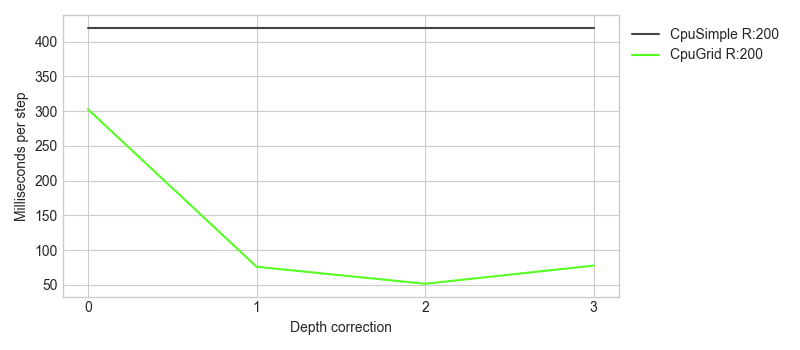
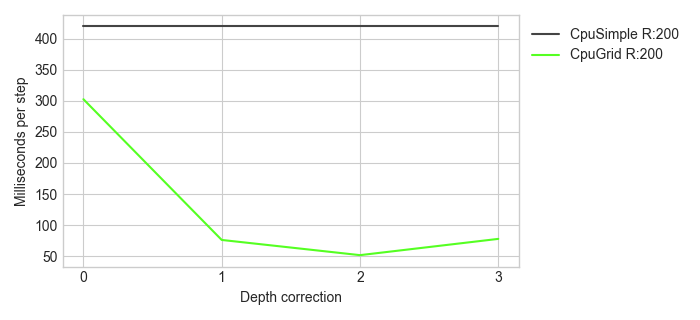
automated plot creation

diff --git a/tay_plots.py b/tay_plots.py
@@ -5,25 +5,7 @@ import numpy as np
 plt.style.use('seaborn-whitegrid')
 
 
-value_index = 0
-# value_label = "Milliseconds per step"
-# value_label = "Narrow/broad phase ratio (%)"
-value_label = "Mean relative deviation (%)"
-data_filename = 'plot_uniform_telemetry'
-plot_see_radii = [
-    0,
-    1,
-    2,
-]
-plot_structures = [
-    'CpuSimple',
-    'CpuTree',
-    'CpuGrid',
-    # 'GpuSimple (direct)',
-    # 'GpuSimple (indirect)',
-]
-
-def _format_and_label(label, radius):
+def _format_and_label(label, radius, all_lines):
     if label == 'CpuSimple':
         color = '#444444'
     elif label == 'CpuTree':
@@ -34,20 +16,17 @@ def _format_and_label(label, radius):
         color = '#ff9933'
     else:
         color = '#ee0000'
-    if radius == 0:
+    if all_lines:
         style = '-'
-    elif radius == 1:
-        style = '--'
     else:
-        style = ':'
-    # style = '-'
+        if radius == 0:
+            style = '-'
+        elif radius == 1:
+            style = '--'
+        else:
+            style = ':'
     return color, style, '%s R:%g' % (label, pow(2, radius) * 50.0)
 
-fig = plt.figure(figsize=(8, 3.5))
-ax = plt.axes()
-
-plt.xlabel("Depth correction")
-plt.ylabel(value_label)
 
 def _number_from_token(token, index):
     bits = token.split('|')
@@ -56,39 +35,68 @@ def _number_from_token(token, index):
     else:
         return float(bits[index])
 
-with open('../tay/benchmark/%s' % data_filename, 'r') as file:
-    text = file.read()
-    lines = text.splitlines()
 
-    depth_corrections = lines[0].split(' ')
-    min_depth_correction = int(depth_corrections[0])
-    max_depth_correction = int(depth_corrections[1])
+def _create_plots_from_file(in_filename, out_filename, value_index, value_label, plot_see_radii, plot_structures, all_lines):
+    with open('../tay/benchmark/%s' % in_filename, 'r') as file:
+        text = file.read()
+        lines = text.splitlines()
 
-    x_vals = range(min_depth_correction, max_depth_correction)
+        depth_corrections = lines[0].split(' ')
+        min_depth_correction = int(depth_corrections[0])
+        max_depth_correction = int(depth_corrections[1])
 
-    for line in lines[1:]:
-        if line.startswith('--'):
-            continue
-        label, rest = line.split('::')
-        if label not in plot_structures:
-            continue
-        tokens = rest.split(' ')
-        radius = int(tokens[0])
-        if radius not in plot_see_radii:
-            continue
-        if len(tokens) == 2:
-            n = _number_from_token(tokens[1], value_index)
-            y_vals = [n for _ in x_vals]
-        else:
-            y_vals = [_number_from_token(n, value_index) for n in tokens[1:]]
-        c, f, l = _format_and_label(label, radius)
-        plt.plot(x_vals, y_vals, f, color=c, label=l)
+        x_vals = range(min_depth_correction, max_depth_correction)
 
-# plt.ylim([0, 100])
+        for line in lines[1:]:
+            if line.startswith('--'):
+                continue
+            label, rest = line.split('::')
+            if label not in plot_structures:
+                continue
+            tokens = rest.split(' ')
+            radius = int(tokens[0])
+            if radius not in plot_see_radii:
+                continue
+            if len(tokens) == 2:
+                n = _number_from_token(tokens[1], value_index)
+                y_vals = [n for _ in x_vals]
+            else:
+                y_vals = [_number_from_token(n, value_index) for n in tokens[1:]]
+            c, f, l = _format_and_label(label, radius, all_lines)
+            plt.plot(x_vals, y_vals, f, color=c, label=l)
 
-plt.gca().xaxis.set_major_locator(mticker.MultipleLocator(1))
-plt.legend(bbox_to_anchor=(1, 1), loc="upper left");
-plt.tight_layout()
-plt.show()
 
-fig.savefig('%s.png' % data_filename)
+def _create_figure(out_filename, in_filenames, value_index, value_label, plot_see_radii, plot_structures, ylim, all_lines):
+    fig = plt.figure(figsize=(7, 3.2))
+    ax = plt.axes()
+
+    plt.xlabel("Depth correction")
+    plt.ylabel(value_label)
+
+    for in_filename in in_filenames:
+        _create_plots_from_file(in_filename,
+                                out_filename=out_filename,
+                                value_index=value_index,
+                                value_label=value_label,
+                                plot_see_radii=plot_see_radii,
+                                plot_structures=plot_structures,
+                                all_lines=all_lines)
+
+    if ylim is not None:
+        plt.ylim([0, ylim])
+
+    plt.gca().xaxis.set_major_locator(mticker.MultipleLocator(1))
+    plt.legend(bbox_to_anchor=(1, 1), loc="upper left");
+    plt.tight_layout()
+    # plt.show()
+    fig.savefig('%s.png' % out_filename)
+
+
+_create_figure('plot1', ['plot_uniform_runtimes'], 0, 'Milliseconds per step', [0], ['CpuSimple', 'CpuGrid'], None, False)
+_create_figure('plot2', ['plot_uniform_runtimes'], 0, 'Milliseconds per step', [2], ['CpuSimple', 'CpuGrid'], None, True)
+_create_figure('plot3', ['plot_uniform_runtimes'], 0, 'Milliseconds per step', [0, 1, 2], ['CpuTree'], 300, False)
+_create_figure('plot4', ['plot_uniform_runtimes'], 0, 'Milliseconds per step', [0, 1, 2], ['CpuTree', 'CpuGrid'], 100, False)
+_create_figure('plot5', ['plot_uniform_runtimes'], 0, 'Milliseconds per step', [0, 1, 2], ['CpuTree', 'CpuGrid', 'GpuSimple (direct)'], 100, False)
+_create_figure('plot6', ['plot_uniform_runtimes'], 0, 'Milliseconds per step', [0, 1, 2], ['GpuSimple (direct)', 'GpuSimple (indirect)'], None, False)
+_create_figure('plot7', ['plot_uniform_telemetry'], 3, 'Narrow / broad phase ratio (%)', [0, 1, 2], ['CpuSimple', 'CpuTree', 'CpuGrid'], None, False)
+_create_figure('plot8', ['plot_uniform_telemetry'], 0, 'Mean relative deviation (%)', [0, 1, 2], ['CpuSimple', 'CpuTree', 'CpuGrid'], None, False)
